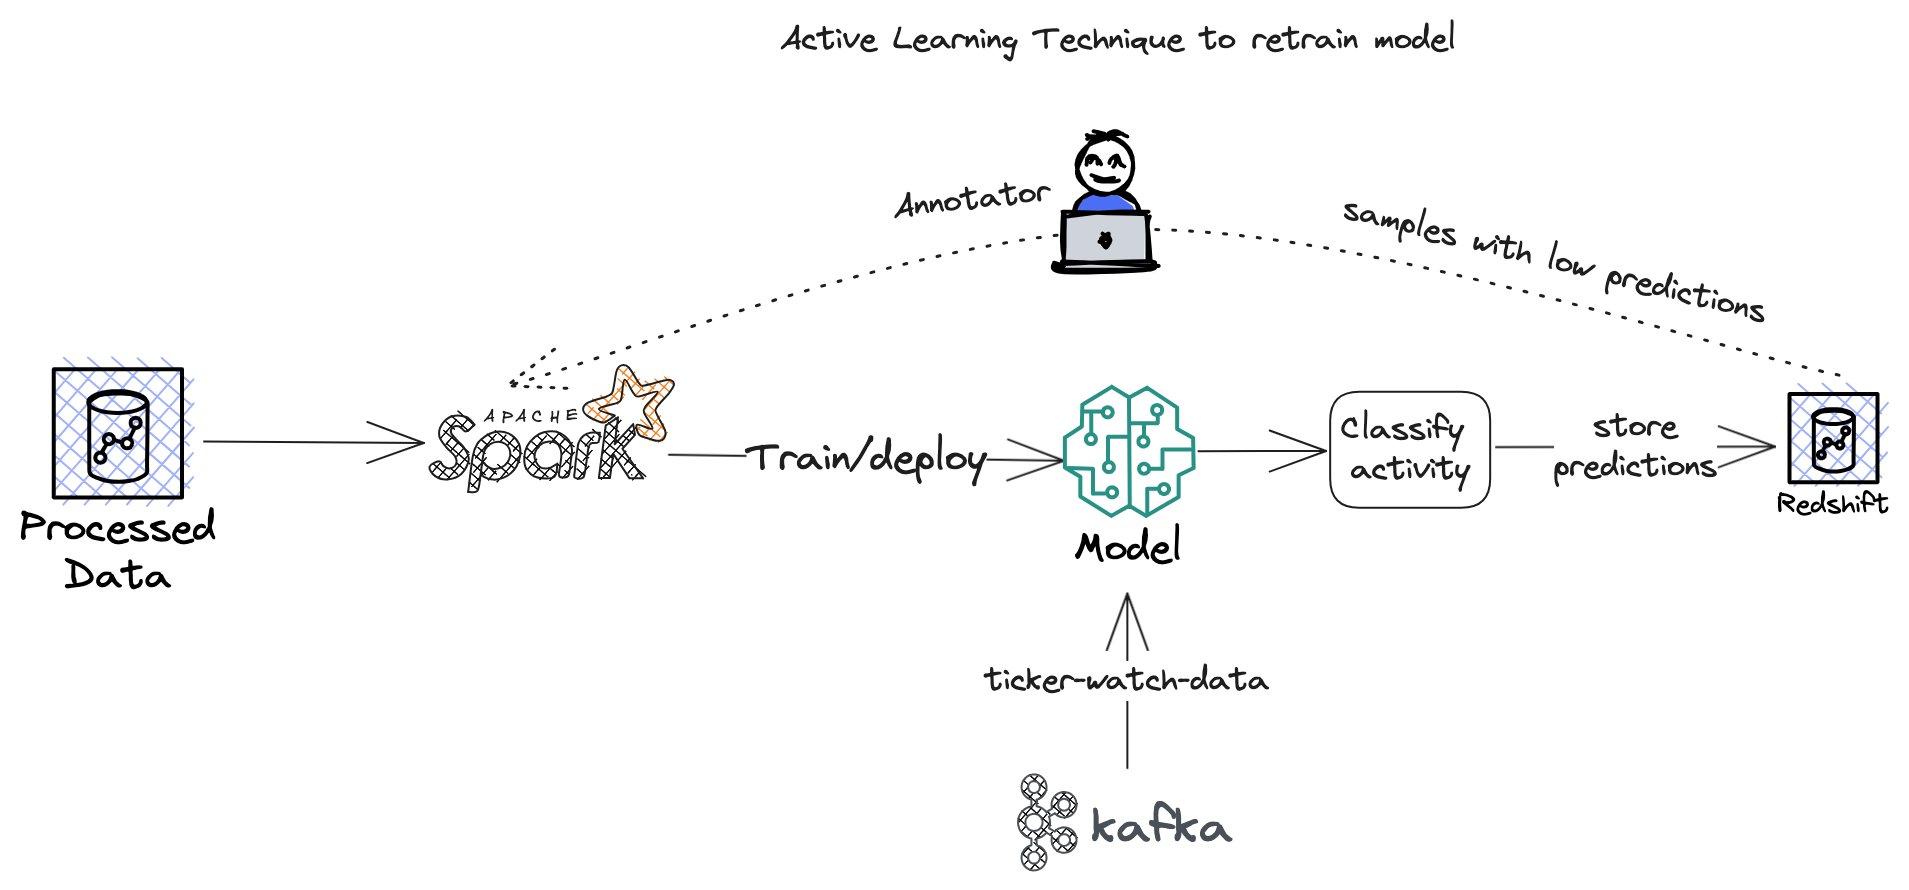
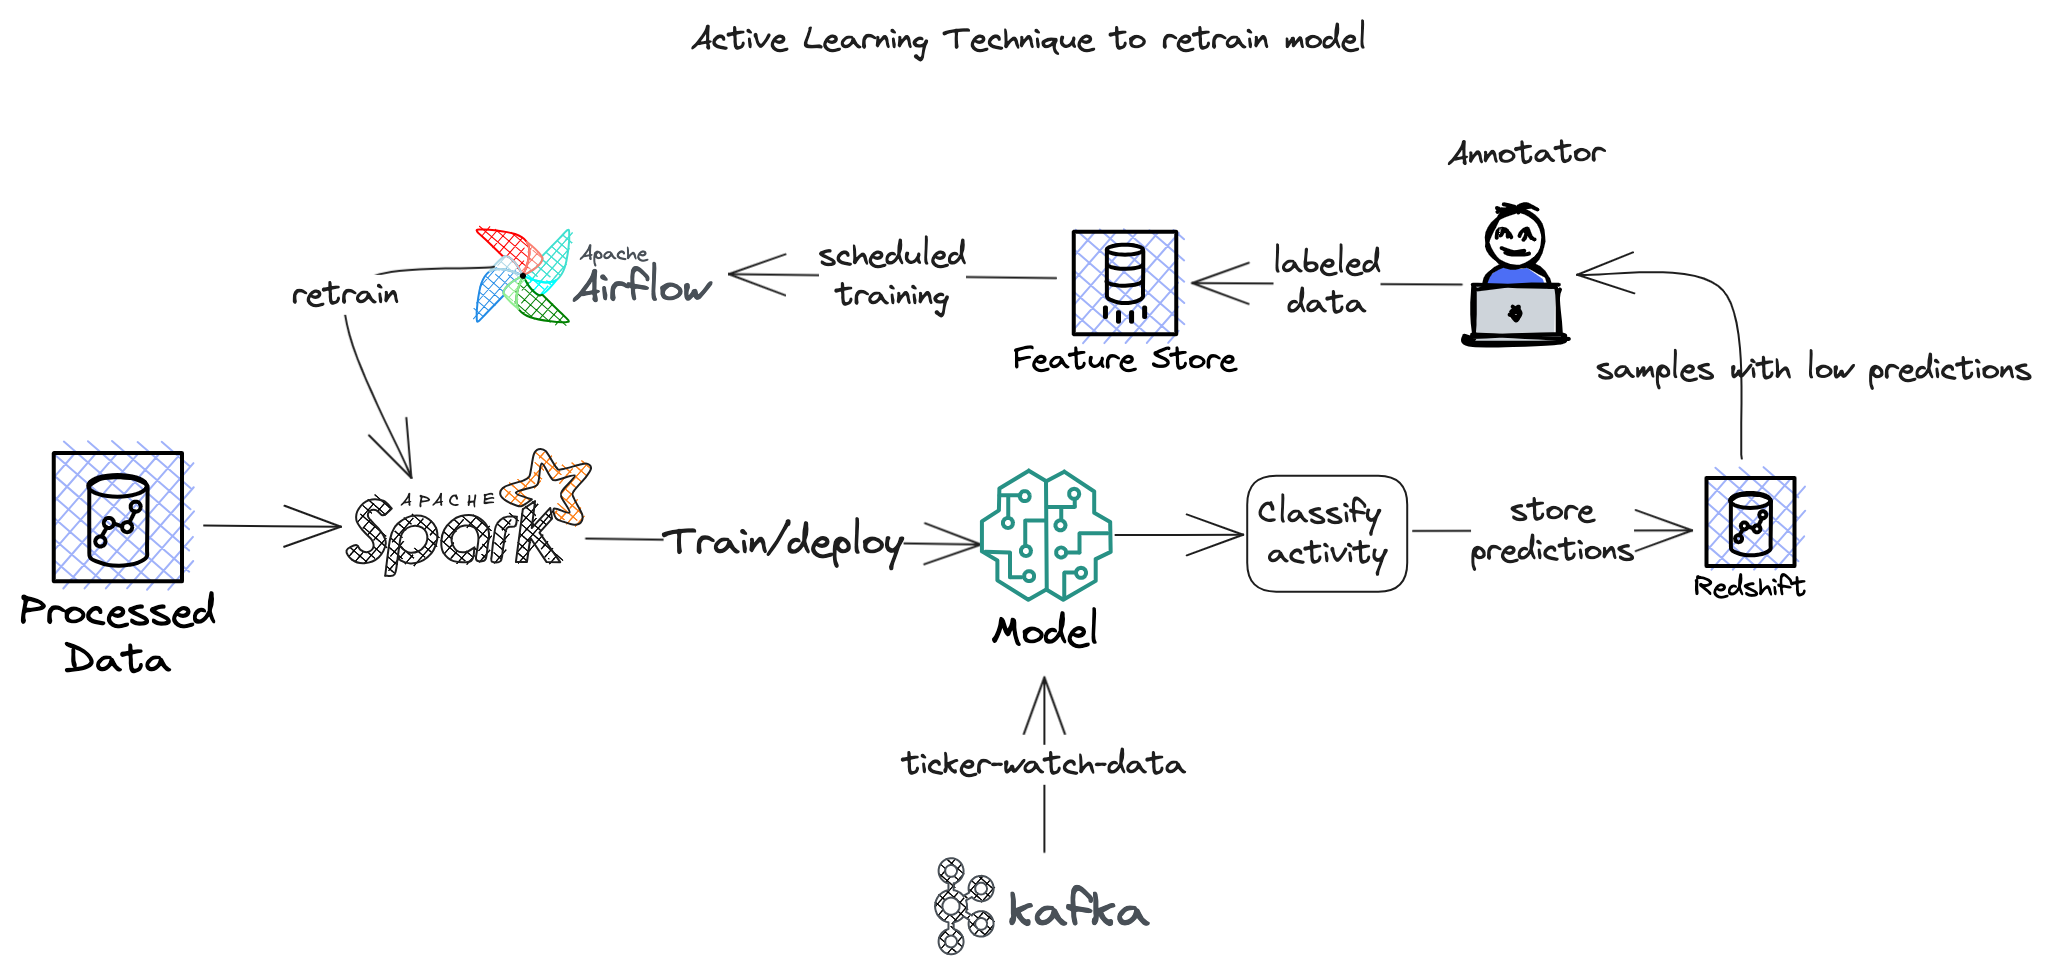
completed readme.md

diff --git a/README.md b/README.md
@@ -1,5 +1,6 @@
 # Smartwatch AWS Lakehouse
-Lakehouse for staging and modeling Apple smartwatch data on AWS S3 using spark and airflow
+Lakehouse for staging, modeling, classifying, and generating new Apple SmartWatch Data. We will use AWS S3, AWS EMR, 
+Kafka, Apache Spark, and Databricks Datagen.
 
 ## Data Loading
 The first stage of the application is to load bulk data from Washington State University (WSU)
@@ -13,4 +14,25 @@ and load them into a glue table.
 
 ## Model Training
 The cleaned up data is used to train a Classifier to predict the recorded activity using the watch raw
-data. 
+data. The notebook to perform this can be found here [Activity Classifier](lakehouse/spark/notebooks/Train%20Activity%20Classifier.ipynb)
+
+The trained model will be used to predict the activity of new samples streamed from a kafka topic using spark streaming
+later in the application. 
+
+### Active Learning
+To retrain the model with new samples, active learning technique is used. When new data samples are streamed from kafka 
+topic, the activities on those samples are predicted using the model trained above. Misclassified samples are labeled with 
+the correct class labels by a human annotator and saved to a feature store. Airflow routinely picks samples in the feature
+store and retrains the model. If the new model has a better than the old one, it is used to classify new streaming samples
+
+![](images/active-learning.png)
+
+## Kafka Streaming
+To simulate the generation of new Apple Watch Data, we will use [Databricks Labs DataGen](https://github.com/databrickslabs/dbldatagen)
+and the descriptive statistics calculated from the raw data samples. This ensures that generated data maintains the 
+distribution of the original dataset. 
+The generated data is loaded into spark streaming and written into a kafka topic. The activity prediction pipeline above
+picks up the data in the topics and makes predictions. The samples with low predictions are sent to the annotation pipeline 
+that will be used to retrain the model at a later date. 
+
+![](images/generate-new-data.png)
